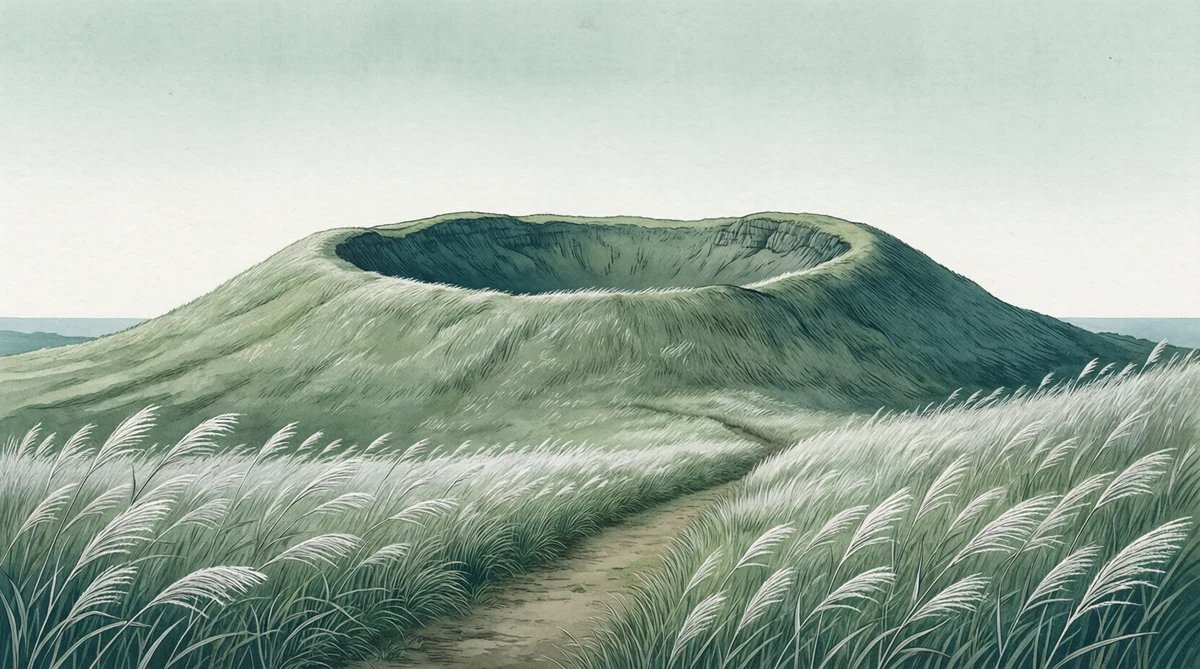
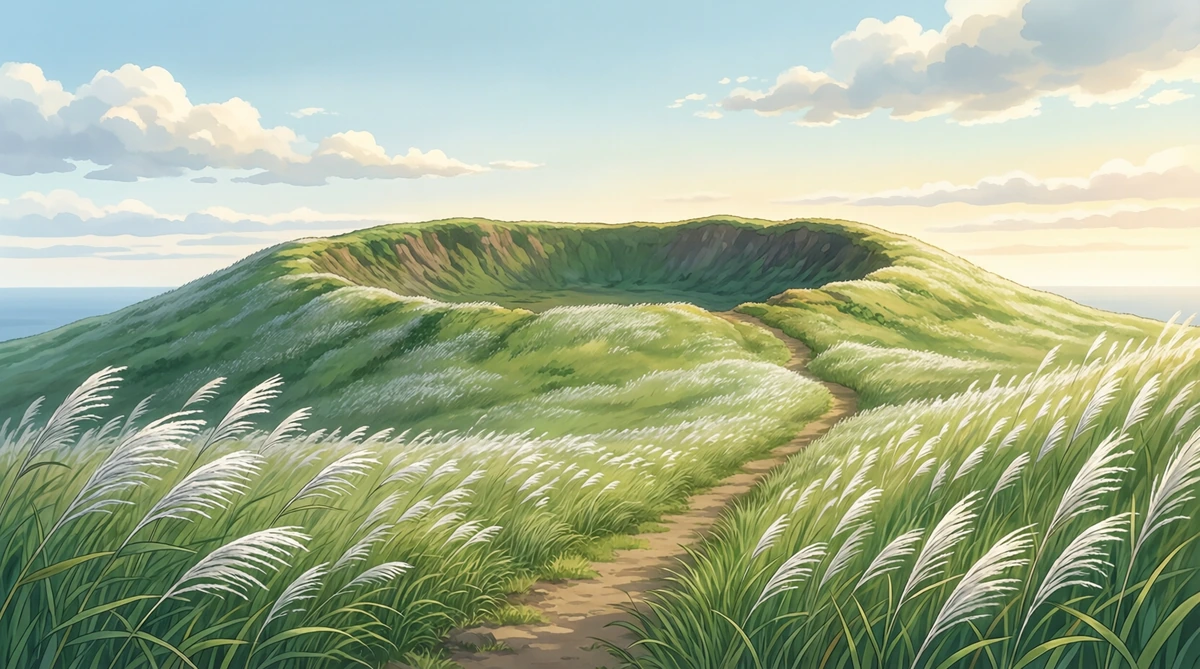
그림을 애니 배경화풍으로 바꾸고 화면 문구·추천 로직 정리
이미지
- 수채화풍 5장을 일본 애니 배경화풍으로 교체 (ComfyUI + Qwen-Image 2512)

문구
- 헤더 배지, 오늘의 제주 둘째 줄, 관광공사 표기를 뺐다
- 한산함 점수(0~100)를 한산해요/적당해요/붐벼요 세 말로 옮겼다
- "붐비는 곳 대신" -> "조금 돌아가 볼까요"

대신 가기 카드
- 취소선과 화살표를 없애고 "○○ 대신, 여긴 어때요?" 세로 카드로
- 유명한 곳은 자기 평소 대비로 줄 세운다. 집중률 값을 장소끼리
  비교하면 안 되기 때문
- 대신 갈 곳은 고정 쌍 대신 같은 테마에서 그 시간 가장 한산한 곳
- 평소 수준인 곳은 카드에서 뺀다. 남는 카드에는 모두 이유가 붙는다

상세 시트
- 시간대 막대를 버튼으로 바꿔 눌러서 시간을 미리 볼 수 있다
- sheetHour 를 따로 둬서 바깥 목록과 슬라이더는 건드리지 않는다

색
- 배경과 강조색을 그림에 맞춰 따뜻하고 밝게
- 라이트/다크 26쌍의 명암비를 재서 전부 4.5 이상으로 맞췄다
  (기존 busy 4.37, mid 3.81 도 함께 고침)

diff --git a/index.html b/index.html
@@ -7,18 +7,18 @@
 <style>
 /* Layout: 한 손 세로 스크롤. 날짜 띠 → 시간 → 오늘의 제주 → 붐비는 곳 대신 → 조용한 곳 목록 → 아래에서 올라오는 상세 시트 */
 :root{
-  --bg:#EDF1EC; --surface:#F8FAF6; --ink:#1D2523; --muted:#5F6A65; --line:#D3DBD4;
-  --accent:#2C6A64; --accent-soft:#D9E7E3; --calm:#3B7A5A; --busy:#B35E3B; --mid:#9A7B2F;
+  --bg:#F0F3EA; --surface:#FBFCF6; --ink:#1C2A24; --muted:#5C6A61; --line:#DBE2D4;
+  --accent:#2C786A; --accent-soft:#DCEBE3; --calm:#367A56; --busy:#A5542F; --mid:#836920;
   --f-display:"Gowun Batang","Nanum Myeongjo",serif;
   --f-body:"IBM Plex Sans KR","Apple SD Gothic Neo","Malgun Gothic",system-ui,sans-serif;
   --r:14px;
 }
 @media (prefers-color-scheme: dark){:root:not([data-theme="light"]){
-  --bg:#111614; --surface:#19201D; --ink:#E3E9E4; --muted:#98A49E; --line:#2B3430;
-  --accent:#80B9B0; --accent-soft:#213531; --calm:#86C29E; --busy:#E2926C; --mid:#D2B567; color-scheme:dark}}
+  --bg:#121714; --surface:#1A211C; --ink:#E6EBE3; --muted:#9BA79D; --line:#2D3730;
+  --accent:#8CC6B8; --accent-soft:#223733; --calm:#8FCBA0; --busy:#E89B70; --mid:#DCBF6B; color-scheme:dark}}
 :root[data-theme="dark"]{
-  --bg:#111614; --surface:#19201D; --ink:#E3E9E4; --muted:#98A49E; --line:#2B3430;
-  --accent:#80B9B0; --accent-soft:#213531; --calm:#86C29E; --busy:#E2926C; --mid:#D2B567; color-scheme:dark}
+  --bg:#121714; --surface:#1A211C; --ink:#E6EBE3; --muted:#9BA79D; --line:#2D3730;
+  --accent:#8CC6B8; --accent-soft:#223733; --calm:#8FCBA0; --busy:#E89B70; --mid:#DCBF6B; color-scheme:dark}
 
 *{box-sizing:border-box}
 body{background:var(--bg);color:var(--ink);font-family:var(--f-body);font-size:15px;line-height:1.55;
@@ -33,8 +33,6 @@ button{font:inherit;color:inherit}
 header{display:flex;flex-direction:column;gap:6px}
 header h1{font-size:34px;line-height:1.15}
 header p{margin:0;color:var(--muted)}
-.badge{align-self:flex-start;font-size:12px;padding:2px 9px;border-radius:99px;border:1px solid var(--line);color:var(--muted)}
-.badge.sample{border-color:var(--mid);color:var(--mid)}
 
 /* 날짜 띠 */
 .dates{display:flex;gap:8px;overflow-x:auto;scrollbar-width:none;margin-inline:-4px;padding:4px}
@@ -59,7 +57,6 @@ input[type=range]{width:100%;accent-color:var(--accent)}
 .today .big{font-family:var(--f-display);font-size:38px;line-height:1;min-width:64px;text-align:center}
 .today .big span{font-size:14px}
 .today p{margin:0}
-.today p + p{font-size:13px;color:var(--muted)}
 
 section{display:flex;flex-direction:column;gap:12px}
 .sec-head{display:flex;justify-content:space-between;align-items:baseline;gap:8px}
@@ -68,14 +65,12 @@ section{display:flex;flex-direction:column;gap:12px}
 
 /* 붐비는 곳 대신 */
 .swaps{display:flex;flex-direction:column;gap:10px}
-.swap{display:grid;grid-template-columns:1fr auto 1fr;align-items:center;gap:10px;background:var(--surface);
+.swap{display:flex;flex-direction:column;gap:3px;background:var(--surface);
   border:1px solid var(--line);border-radius:var(--r);padding:12px 14px;text-align:left;cursor:pointer;width:100%}
-.swap .from{color:var(--muted);min-width:0}
-.swap .from s{text-decoration-color:var(--busy)}
-.swap .to{min-width:0}
-.swap .to b{font-family:var(--f-display);font-size:16px}
-.swap small{display:block;font-size:12px}
-.swap .arrow{color:var(--accent);font-size:18px}
+.swap .ask{display:flex;justify-content:space-between;align-items:baseline;gap:10px;font-size:12px;color:var(--muted)}
+.swap .ask em{font-style:normal;white-space:nowrap}
+.swap b{font-family:var(--f-display);font-size:17px}
+.swap small{font-size:12px}
 .c-busy{color:var(--busy)} .c-mid{color:var(--mid)} .c-calm{color:var(--calm)}
 
 /* 필터 */
@@ -121,9 +116,12 @@ figure.band img{aspect-ratio:5/2}
 .best{background:var(--accent-soft);border-radius:12px;padding:12px 14px;display:flex;justify-content:space-between;align-items:center;gap:10px}
 .best b{font-family:var(--f-display);font-size:20px}
 .bars{display:flex;align-items:flex-end;gap:3px;height:110px;padding-top:6px;border-bottom:1px solid var(--line)}
-.bars div{flex:1;border-radius:3px 3px 0 0;background:var(--line);min-height:3px;position:relative}
-.bars div.best-h{background:var(--calm)}
-.bars div.now{outline:2px solid var(--ink);outline-offset:1px}
+.bars button{flex:1;border:0;padding:0;border-radius:3px 3px 0 0;background:var(--line);min-height:3px;
+  cursor:pointer;transition:background .12s}
+.bars button.best-h{background:var(--calm)}
+.bars button.now{outline:2px solid var(--ink);outline-offset:1px}
+.bars button:hover{background:var(--muted)}
+.bars button.best-h:hover{background:var(--accent)}
 .bar-x{display:flex;justify-content:space-between;font-size:11px;color:var(--muted)}
 .sheet-actions{display:flex;gap:8px;flex-wrap:wrap}
 .link{display:inline-block;padding:10px 16px;border-radius:99px;background:var(--accent);color:var(--bg);text-decoration:none;font-weight:500}
@@ -142,7 +140,6 @@ figure.band img{aspect-ratio:5/2}
     <span class="eyebrow">제주 · 한적한 곳 찾기</span>
     <h1>조용한 여행자</h1>
     <p>사람 많은 곳을 피해, 날짜와 시간에 맞춰 덜 붐비는 제주를 골라 드려요.</p>
-    <span class="badge" id="srcBadge">예측 불러오는 중</span>
   </header>
 
   <section aria-label="날짜 선택">
@@ -157,7 +154,7 @@ figure.band img{aspect-ratio:5/2}
   <div class="today" id="today"></div>
 
   <section>
-    <div class="sec-head"><h2>붐비는 곳 대신</h2><span>관광공사 예측 집중률</span></div>
+    <div class="sec-head"><h2>조금 돌아가 볼까요</h2></div>
     <div class="swaps" id="swaps"></div>
   </section>
 
@@ -269,7 +266,8 @@ function buildProfiles(){
 buildProfiles();
 
 // ---------- 상태 ----------
-const state = { forecast:null, dates:[], date:null, hour:10, theme:"전체", saved:loadSaved(), open:null };
+const state = { forecast:null, dates:[], date:null, hour:10, theme:"전체", saved:loadSaved(), open:null,
+  sheetHour:10 };   // sheetHour: 상세 시트 안에서만 보는 시간. 바깥 목록은 건드리지 않는다.
 function loadSaved(){ try{ return new Set(JSON.parse(localStorage.getItem("qt-saved")||"[]")); }catch(e){ return new Set(); } }
 function storeSaved(){ try{ localStorage.setItem("qt-saved", JSON.stringify([...state.saved])); }catch(e){} }
 
@@ -318,7 +316,6 @@ function computeDayStats(){
   const today = ymd(new Date());
   let ds = Object.keys(by).sort();
   const future = ds.filter(d=>d>=today);
-  state.stale = future.length===0;
   state.dates = (future.length?future:ds).slice(0,14);
   state.date = state.dates[0];
 }
@@ -339,6 +336,10 @@ function crowdAt(p, h, date){ return Math.min(100, Math.round(100*p.pop*PROF[p.p
 function vsUsual(rate, avg){
   const k = rate/avg;
   return k>1.15 ? {t:"평소보다 붐빔", c:"c-busy"} : k<.85 ? {t:"평소보다 한산", c:"c-calm"} : {t:"평소 수준", c:"c-mid"};
+}
+// 한산함 점수(0~100)를 그대로 보여 주면 뜻이 안 통해서, 세 단계 말로 옮긴다.
+function quietWord(q){
+  return q>=65 ? "한산해요" : q>=45 ? "적당해요" : "붐벼요";
 }
 function level(quiet){
   if(quiet>=80) return {t:"고요", c:"c-calm", n:5};
@@ -370,31 +371,43 @@ function renderDates(){
   }).join("");
 }
 function renderToday(){
-  const f=dayFactor(state.date), dt=parseYmd(state.date);
+  const f=dayFactor(state.date);
   const a=dayAvg[state.date];
   const msg = f>1.08 ? "제주 전체가 평소보다 붐비는 날이에요. 이른 아침이나 중산간을 추천해요."
             : f<.95 ? "평소보다 한산한 날이에요. 조용한 여행에 좋은 날입니다."
             : "평소와 비슷한 날이에요. 유명한 곳은 오전 일찍 다녀오세요.";
   $("today").innerHTML = `<div class="big num">${a!=null?Math.round(a):"–"}<span>%</span></div>
-    <div><p>${msg}</p><p>${dt.getMonth()+1}월 ${dt.getDate()}일(${WD[dt.getDay()]}) 주요 관광지 평균 예상 집중률</p></div>`;
+    <div><p>${msg}</p></div>`;
 }
 function renderSwaps(){
+  // 유명한 곳은 '자기 평소 대비' 로 줄 세운다. 집중률 값을 장소끼리 비교하면 안 되기 때문.
   const rows = SWAPS.map(s=>{
     const rate = rateOf(s.api, state.date);
     if(rate==null) return null;
-    const alt = PLACES.find(p=>p.id===s.alt);
-    const fc = Math.round(rate);
-    const aq = 100-crowdAt(alt, state.hour, state.date);
-    return {s, alt, fc, aq};
-  }).filter(Boolean).sort((a,b)=>b.fc-a.fc).slice(0,4);
+    const avg = spotAvg[s.api];
+    if(!avg) return null;
+    return {s, ratio: rate/avg, uf: vsUsual(rate, avg)};
+  }).filter(Boolean).filter(r=>r.uf.c==="c-busy").sort((a,b)=>b.ratio-a.ratio).slice(0,4);
+
+  // 대신 갈 곳은 고정 쌍 대신, 그 짝과 같은 테마에서 지금 가장 한산한 곳으로 고른다.
+  // (카드끼리 같은 곳을 추천하지 않도록 쓴 곳은 빼 가며 고른다)
+  const used = new Set();
+  for(const r of rows){
+    const paired = PLACES.find(p=>p.id===r.s.alt);
+    const pool = PLACES.filter(p=>p.theme===paired.theme && !used.has(p.id));
+    const best = (pool.length?pool:[paired])
+      .map(p=>({p, q:100-crowdAt(p, state.hour, state.date)}))
+      .sort((a,b)=>b.q-a.q)[0];
+    r.alt = best.p; r.aq = best.q; used.add(best.p.id);
+  }
   $("swaps").innerHTML = rows.length ? rows.map(r=>{
-    const lf=level(100-r.fc), la=level(r.aq);
+    const la=level(r.aq);
     return `<button class="swap" data-id="${r.alt.id}">
-      <span class="from"><s>${r.s.famous}</s><small class="${lf.c}">집중률 <span class="num">${r.fc}%</span></small></span>
-      <span class="arrow" aria-hidden="true">→</span>
-      <span class="to"><b>${r.alt.name}</b><small class="${la.c}">${la.t} · 한산함 <span class="num">${r.aq}</span></small></span>
+      <span class="ask">${r.s.famous} 대신, 여긴 어때요?${r.uf&&r.uf.c==="c-busy"?`<em class="c-busy">오늘 더 붐벼요</em>`:""}</span>
+      <b>${r.alt.name}</b>
+      <small class="${la.c}">${quietWord(r.aq)}</small>
     </button>`;
-  }).join("") : '<p class="empty">이 날짜의 관광지 예측이 없어요.</p>';
+  }).join("") : '<p class="empty">오늘은 유명한 곳도 평소 수준이에요. 가고 싶던 곳으로 다녀오세요.</p>';
 }
 function renderThemes(){
   $("themes").innerHTML = THEMES.map(t=>`<button class="chip" aria-pressed="${t===state.theme}" data-t="${t}">${t==="저장"?"♡ 저장":t}</button>`).join("");
@@ -419,11 +432,6 @@ function renderList(){
     </button>`;
   }).join("") : '<p class="empty">저장한 곳이 아직 없어요. 장소를 눌러 ♡ 저장해 보세요.</p>';
 }
-function renderSource(){
-  const f=state.forecast, b=$("srcBadge");
-  if(f.sample){ b.textContent="샘플 예측 · 실제 수치 아님"; b.classList.add("sample"); }
-  else { b.textContent=`관광공사 예측 · ${f.fetchedAt?f.fetchedAt.slice(0,10):""} 갱신`; b.classList.remove("sample"); }
-  if(state.stale && !f.sample) b.textContent+=" · 지난 예측";}
 function renderAll(){
   $("hourLabel").textContent = state.hour+"시";
   renderDates(); renderToday(); renderSwaps(); renderThemes(); renderList();
@@ -433,25 +441,26 @@ function renderAll(){
 // ---------- 상세 시트 ----------
 function forecastBlock(p){
   const r = p.api ? rateOf(p.api, state.date) : null;
-  if(r==null) return `<p class="note">관광공사 예측 대상이 아닌 곳이라, 유형별 방문 패턴과 그날 제주 전체 예측으로 추정했어요.</p>`;
+  if(r==null) return `<p class="note">예측 대상이 아닌 곳이라, 유형별 방문 패턴과 그날 제주 전체 예측으로 추정했어요.</p>`;
   const avg = spotAvg[p.api], u = vsUsual(r, avg);
   const quietDays = state.dates.map(d=>({d, r:rateOf(p.api,d)})).filter(x=>x.r!=null).sort((a,b)=>a.r-b.r).slice(0,3)
     .map(x=>{ const t=parseYmd(x.d); return `${t.getMonth()+1}/${t.getDate()}(${WD[t.getDay()]})`; });
   return `<div class="fc">
-    <p><span class="eyebrow">이날 관광공사 예측</span><br>집중률 <b class="num">${Math.round(r)}%</b> · <span class="${u.c}">${u.t}</span> <span class="note num">(30일 평균 ${Math.round(avg)}%)</span></p>
+    <p><span class="eyebrow">이날 예측</span><br><b class="${u.c}">${u.t}</b></p>
     <p class="note">앞으로 2주 중 가장 한산할 날: <span class="num">${quietDays.join(", ")}</span></p>
   </div>`;
 }
 let lastFocus=null;
 function openSheet(id, refresh){
   const p = PLACES.find(x=>x.id===id); if(!p) return;
-  if(!refresh) lastFocus=document.activeElement;
+  if(!refresh){ lastFocus=document.activeElement; state.sheetHour = state.hour; }
   state.open=id;
+  const sh = state.sheetHour;
   const bw = bestWindow(p, state.date);
   const hours=[]; for(let h=6;h<=20;h++) hours.push(h);
   const peak = Math.max(50, ...hours.map(h=>crowdAt(p,h,state.date)));
   const swap = SWAPS.find(s=>s.alt===id);
-  const q = 100-crowdAt(p,state.hour,state.date), l=level(q);
+  const q = 100-crowdAt(p,sh,state.date), l=level(q);
   const saved = state.saved.has(id);
   const mapUrl = "https://map.kakao.com/?q="+encodeURIComponent(p.name);
   $("sheet").innerHTML = `<div class="sheet-in">
@@ -464,13 +473,13 @@ function openSheet(id, refresh){
     ${swap?`<p class="note">${swap.famous} 대신 가기 좋은 곳이에요.</p>`:""}
     ${forecastBlock(p)}
     <div class="best"><div><span class="eyebrow">가장 조용한 때</span><br><b class="num">${bw}–${bw+2}시</b></div>
-      <div class="${l.c}" style="text-align:right">${ripple(l.n)}<div class="lv">${state.hour}시 ${l.t} <span class="num">${q}</span></div></div></div>
+      <div class="${l.c}" style="text-align:right">${ripple(l.n)}<div class="lv"><span class="num">${sh}시</span> ${quietWord(q)}</div></div></div>
     <div>
-      <div class="bars" role="img" aria-label="시간대별 혼잡 추정, 막대가 낮을수록 조용함">
-        ${hours.map(h=>`<div class="${h>=bw&&h<bw+2?"best-h":""} ${h===state.hour?"now":""}" style="height:${Math.round(crowdAt(p,h,state.date)/peak*100)}%"></div>`).join("")}
+      <div class="bars" role="group" aria-label="시간대별 혼잡 추정. 막대를 누르면 그 시간으로 바뀌어요">
+        ${hours.map(h=>`<button type="button" class="${h>=bw&&h<bw+2?"best-h":""} ${h===sh?"now":""}" data-h="${h}" aria-pressed="${h===sh}" aria-label="${h}시 ${quietWord(100-crowdAt(p,h,state.date))}" style="height:${Math.round(crowdAt(p,h,state.date)/peak*100)}%"></button>`).join("")}
       </div>
       <div class="bar-x num"><span>6시</span><span>10시</span><span>14시</span><span>18시</span><span>20시</span></div>
-      <p class="note">막대가 낮을수록 조용해요. 초록은 추천 시간, 테두리는 선택한 시간.</p>
+      <p class="note">막대를 눌러 시간을 바꿔 보세요. 낮을수록 조용하고, 초록은 추천 시간이에요.</p>
     </div>
     <div class="sheet-actions">
       <a class="link" href="${mapUrl}" target="_blank" rel="noopener">카카오맵에서 보기</a>
@@ -479,6 +488,14 @@ function openSheet(id, refresh){
   </div>`;
   $("sheet").hidden=false; $("scrim").hidden=false;
   $("closeBtn").onclick=closeSheet;
+  $("sheet").querySelectorAll(".bars button").forEach(b=>{
+    b.onclick = ()=>{
+      state.sheetHour = +b.dataset.h;         // 바깥 목록과 슬라이더는 그대로 둔다
+      openSheet(id, true);                    // 시트만 다시 그린다
+      const again = $("sheet").querySelector(`.bars button[data-h="${state.sheetHour}"]`);
+      if(again) again.focus();                // 다시 그리면서 날아간 포커스를 되돌린다
+    };
+  });
   $("saveBtn").onclick=()=>{ state.saved.has(id)?state.saved.delete(id):state.saved.add(id); storeSaved(); renderList(); openSheet(id,true); };
   if(!refresh) $("closeBtn").focus();
 }
@@ -486,7 +503,7 @@ function closeSheet(){ state.open=null; $("sheet").hidden=true; $("scrim").hidde
 
 // ---------- 이벤트 ----------
 $("dates").addEventListener("click", e=>{ const b=e.target.closest(".day"); if(!b) return; state.date=b.dataset.d; renderAll(); });
-$("hour").addEventListener("input", e=>{ state.hour=+e.target.value; renderAll(); });
+$("hour").addEventListener("input", e=>{ state.hour=+e.target.value; state.sheetHour=state.hour; renderAll(); });
 $("themes").addEventListener("click", e=>{ const b=e.target.closest(".chip"); if(!b) return; state.theme=b.dataset.t; renderThemes(); renderList(); });
 document.addEventListener("click", e=>{ const b=e.target.closest(".place,.swap"); if(b) openSheet(b.dataset.id); });
 $("scrim").addEventListener("click", closeSheet);
@@ -504,7 +521,6 @@ document.addEventListener("keydown", e=>{ if(e.key==="Escape" && state.open) clo
   }catch(e){}
   state.forecast = await loadForecast();
   computeDayStats();
-  renderSource();
   renderAll();
 })();
 </script>
